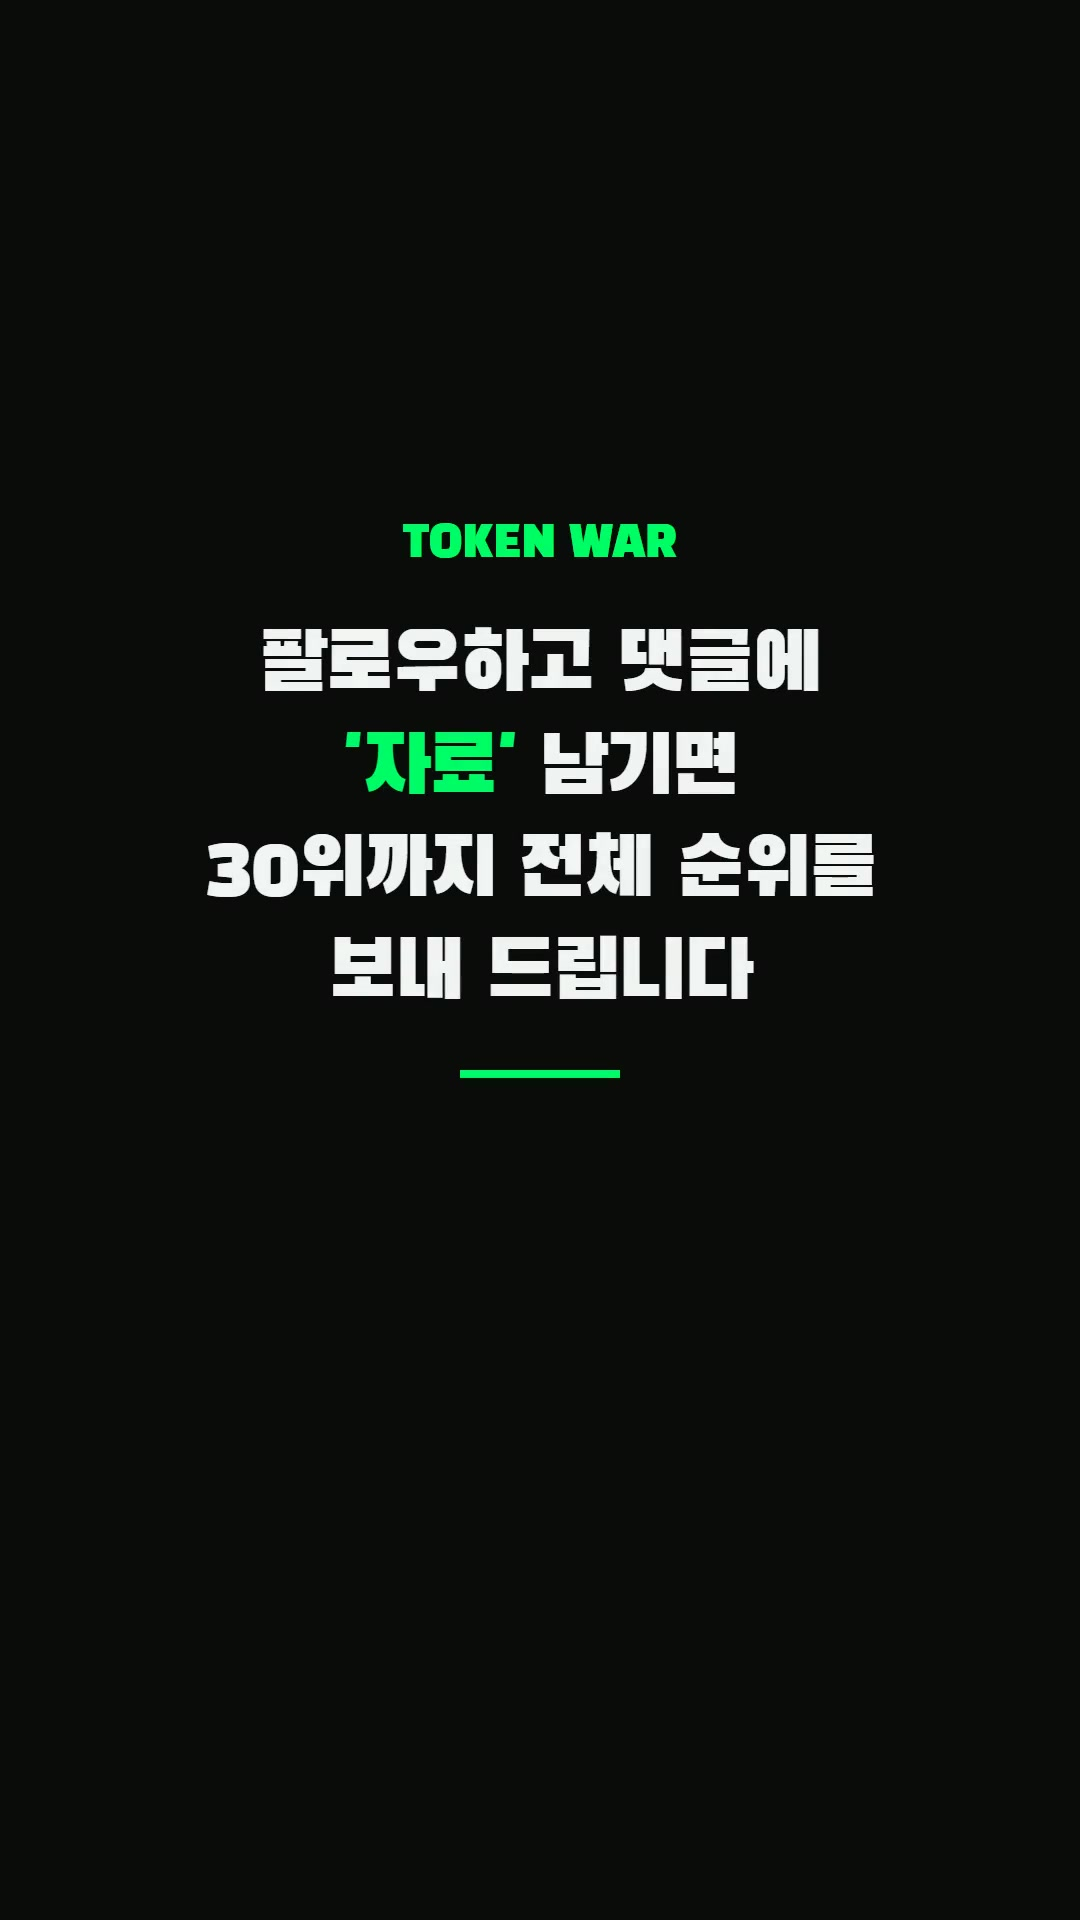
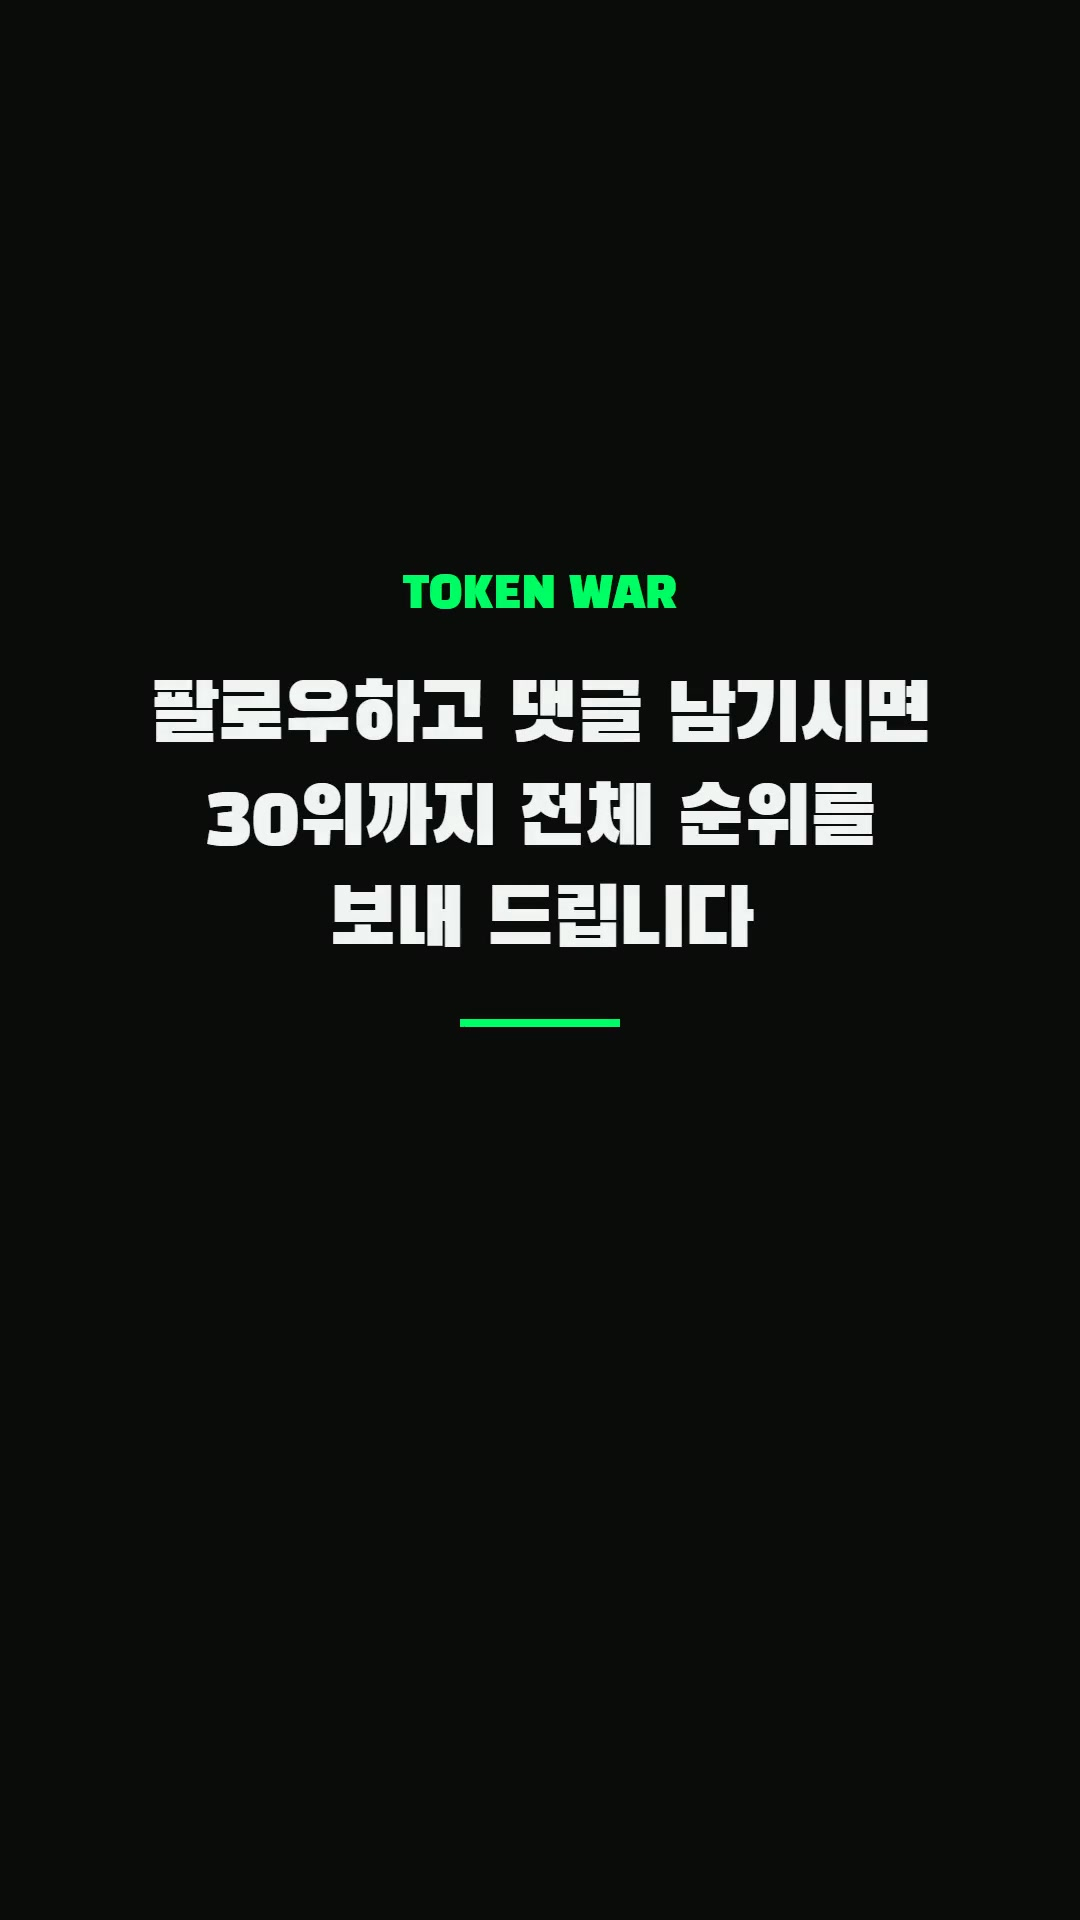
checks: dm.cta는 '자료' 대신 '댓글 남기시면'도 허용(아무 댓글 반응, 운영자 결정). AI 직업 TOP10 다시 렌더링. 승인 전

Changed region(s): [[0.1222, 0.25, 0.8556, 0.5625]]

diff --git a/agent/checks.py b/agent/checks.py
@@ -694,7 +694,8 @@ def check_dm(post):
     if not cta:
         (errors if str(post.get("date", "")) >= "2026-11-16" else warnings).append(f"dm.cta(화면 안 '{kw}' 안내) 필요: 얻는 것을 구체적으로, 예: \"팔로우하고 댓글에 '{kw}' 남기면 화풍 스킬 적용법 보내 드립니다\" "
                       "(릴스는 끝 화면 2.5초, 카드는 마지막 장. STYLE_GUIDE 7-1)")
-    elif f"'{kw}'" not in cta and f"‘{kw}’" not in cta:
+    # 반응 조건이 '아무 댓글'이라 키워드 없이 '댓글 남기시면'도 된다 (운영자 결정 2026-11-17)
+    elif f"'{kw}'" not in cta and f"‘{kw}’" not in cta and not re.search(r"댓글(을)?\s*남기시면", cta):
         errors.append(f"dm.cta에 댓글 키워드 '{kw}'가 따옴표로 들어가야 함: '{cta}'")
     elif len(cta.replace("\n", "")) > 48:
         warnings.append(f"dm.cta는 48자 안으로 짧게: '{cta}'")
